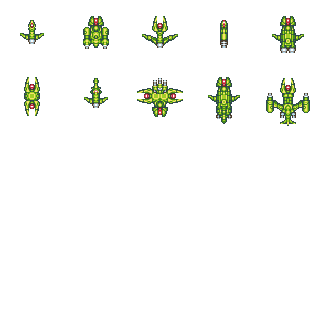
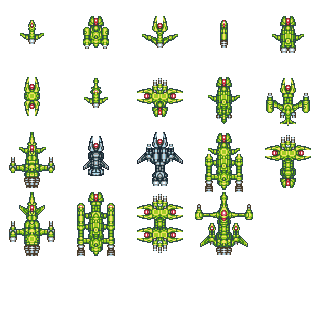
#12 Finished sporkships.

diff --git a/src/main/java/org/openRealmOfStars/player/ship/ShipImages.java b/src/main/java/org/openRealmOfStars/player/ship/ShipImages.java
@@ -66,8 +66,7 @@ public final class ShipImages {
     humans = new ShipImage("humanships.png");
     mechions = new ShipImage("mechionships.png");
     centaurs = new ShipImage("centaurships.png");
-    // FIXME: Need to create ships for other races too
-    sporks = new ShipImage("humanships.png");
+    sporks = new ShipImage("sporkships.png");
     greyans = new ShipImage("greyanships.png");
   }
 
